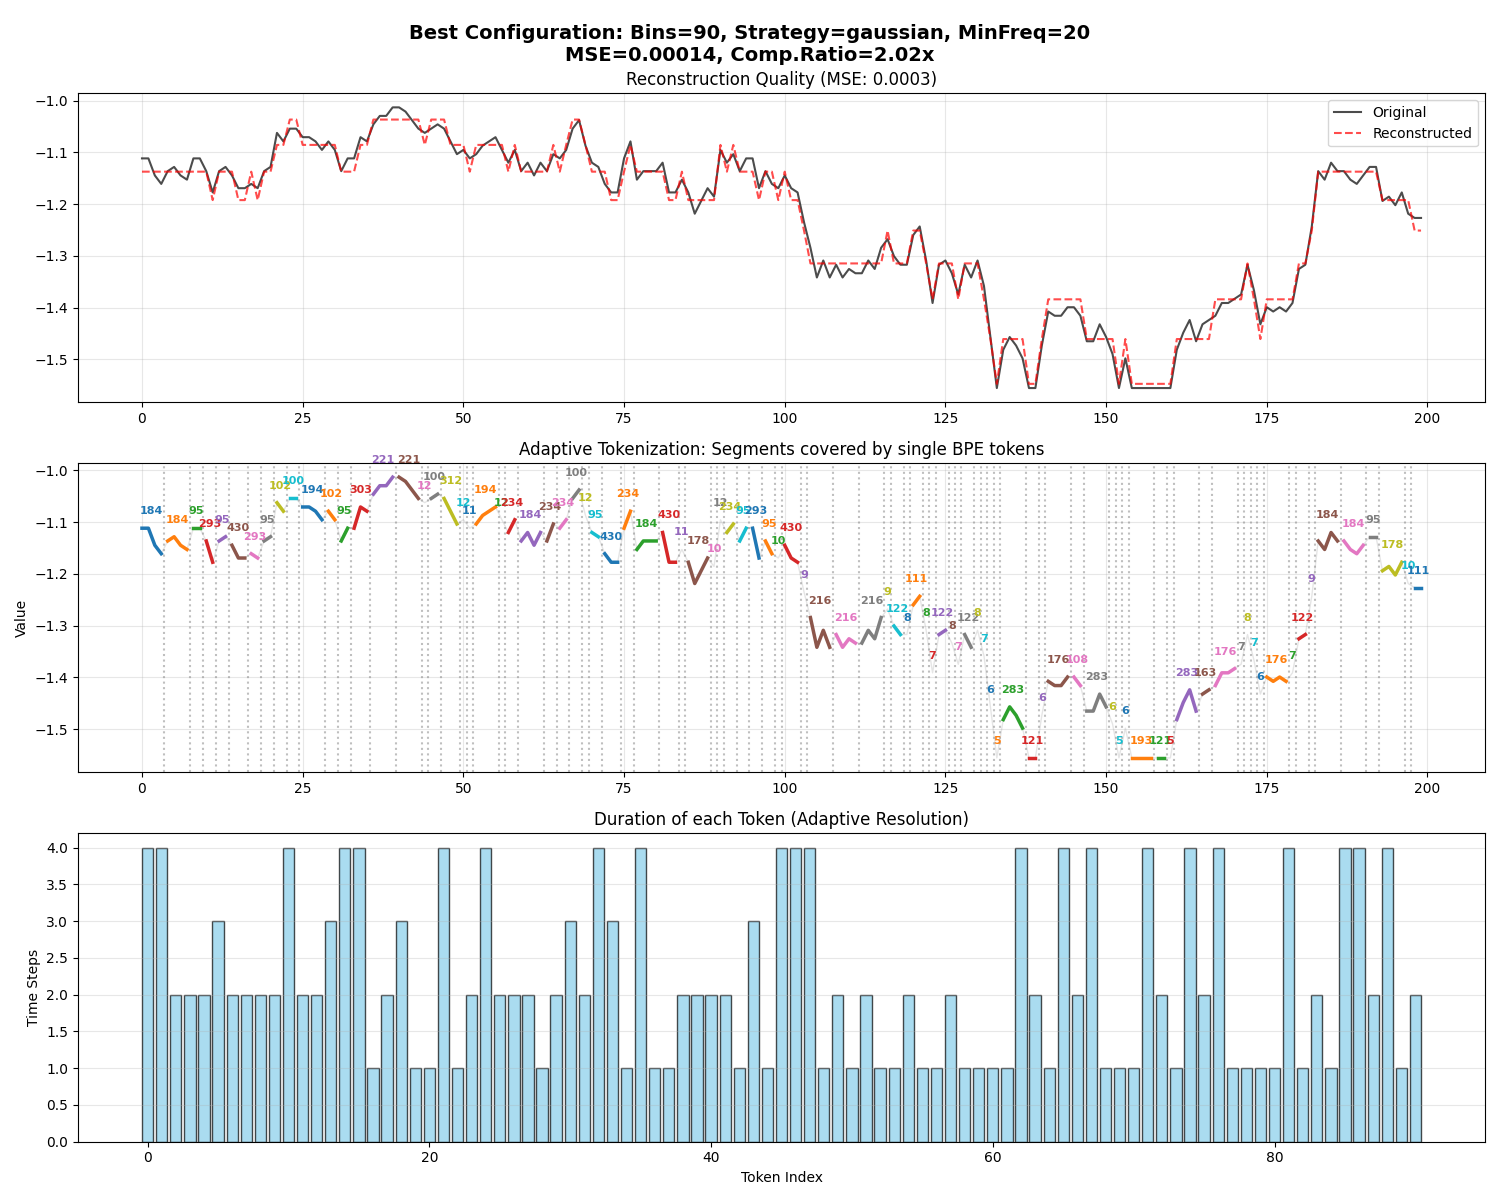
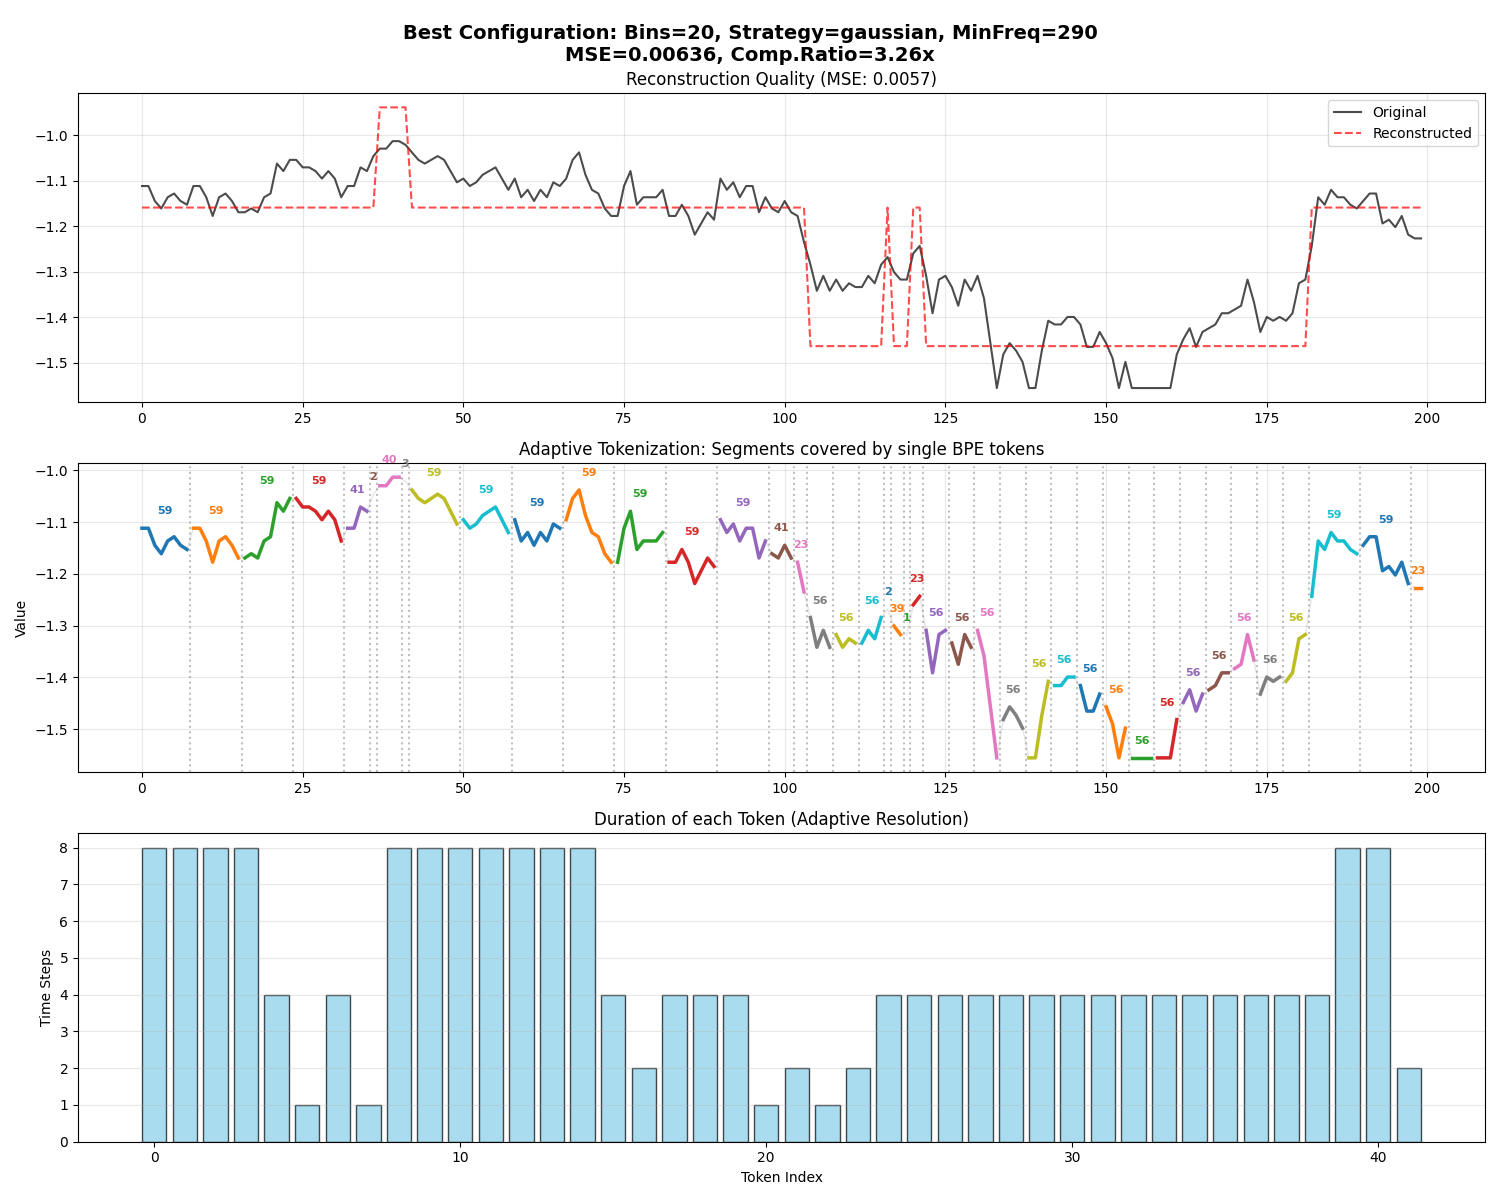
update eval method

diff --git a/src/main.py b/src/main.py
@@ -177,9 +177,15 @@ def run_parameter_sweep(series, n_bins_list, strategies, min_freq_list, csv_path
             
     return pd.DataFrame(results)
 
-def select_best_model(df, top_n=3, consistency_threshold=0.6):
+def select_best_model(df, top_n=3, consistency_threshold=0.6, perplexity_threshold=None):
     """
-    Selects the best model based on Motif Consistency (Visual Quality).
+    Selects the best model based on Motif Consistency (Visual Quality) and Perplexity (Grammar Quality).
+    
+    Args:
+        df: DataFrame with experiment results.
+        top_n: Number of top candidates to display.
+        consistency_threshold: Minimum consistency score (higher is better).
+        perplexity_threshold: Maximum perplexity (lower is better). If None, uses median.
     """
     if df.empty:
         return None
@@ -190,23 +196,49 @@ def select_best_model(df, top_n=3, consistency_threshold=0.6):
     if 'consistency_score' not in df.columns:
         print("Error: 'consistency_score' metric missing. Re-running experiments required.")
         return df.iloc[0]
+    
+    if 'perplexity' not in df.columns:
+        print("Error: 'perplexity' metric missing. Re-running experiments required.")
+        return df.iloc[0]
         
     # We want consistent motifs (High Correlation)
-    valid_motif_df = df[df['consistency_score'] >= consistency_threshold].copy()
+    valid_df = df[df['consistency_score'] >= consistency_threshold].copy()
     
-    if valid_motif_df.empty:
+    if valid_df.empty:
         print(f"Warning: No models passed consistency >= {consistency_threshold}. Using all models.")
-        valid_motif_df = df
+        valid_df = df.copy()
     else:
-        print(f"Motif Filter: {len(df)} -> {len(valid_motif_df)} candidates (Consistency >= {consistency_threshold})")
-        
-    # 2. Ranking
-    # Primary: Consistency (Visual Quality)
-    # Secondary: Compression (Efficiency)
-    ranked = valid_motif_df.sort_values('consistency_score', ascending=False)
+        print(f"Motif Filter: {len(df)} -> {len(valid_df)} candidates (Consistency >= {consistency_threshold})")
     
-    print("\nTop Candidates (Best Visual Motifs):")
-    cols = ['n_bins', 'strategy', 'min_freq', 'mse', 'consistency_score', 'compression_ratio']
+    # 2. Perplexity Filter (Low perplexity = good grammar structure)
+    if perplexity_threshold is None:
+        perplexity_threshold = valid_df['perplexity'].median()
+    
+    valid_ppl_df = valid_df[valid_df['perplexity'] <= perplexity_threshold].copy()
+    
+    if valid_ppl_df.empty:
+        print(f"Warning: No models passed perplexity <= {perplexity_threshold:.2f}. Using consistency-filtered models.")
+        valid_ppl_df = valid_df
+    else:
+        print(f"Perplexity Filter: {len(valid_df)} -> {len(valid_ppl_df)} candidates (Perplexity <= {perplexity_threshold:.2f})")
+        
+    # 3. Ranking: Combined Score
+    # Normalize metrics for combined ranking
+    # Consistency: higher is better (0-1 scale already)
+    # Perplexity: lower is better (need to invert)
+    ppl_min, ppl_max = valid_ppl_df['perplexity'].min(), valid_ppl_df['perplexity'].max()
+    if ppl_max > ppl_min:
+        valid_ppl_df['ppl_score'] = 1 - (valid_ppl_df['perplexity'] - ppl_min) / (ppl_max - ppl_min)
+    else:
+        valid_ppl_df['ppl_score'] = 1.0
+    
+    # Combined score: weighted average (consistency 50%, perplexity 50%)
+    valid_ppl_df['combined_score'] = 0.5 * valid_ppl_df['consistency_score'] + 0.5 * valid_ppl_df['ppl_score']
+    
+    ranked = valid_ppl_df.sort_values('combined_score', ascending=False)
+    
+    print("\nTop Candidates (Best Visual Motifs + Grammar Quality):")
+    cols = ['n_bins', 'strategy', 'min_freq', 'mse', 'consistency_score', 'perplexity', 'compression_ratio']
     # Check if cols exist
     cols = [c for c in cols if c in ranked.columns]
     print(ranked[cols].head(top_n))
@@ -229,7 +261,7 @@ def main():
     
     # 2. Phase 1: Coarse Grid Search
     print("\n=== Phase 1: Coarse Grid Search ===")
-    bins_coarse = [10, 20, 30, 50, 100]
+    bins_coarse = [20, 30, 50, 100]
     strategies = ['quantile', 'gaussian', 'uniform_fixed']
     min_freqs = [30,50,100,200,300]
     
